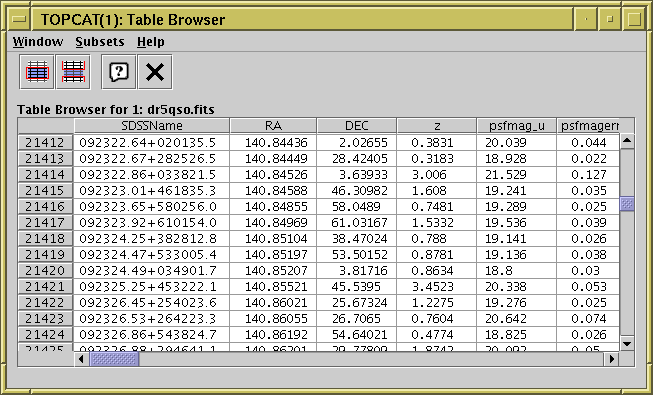
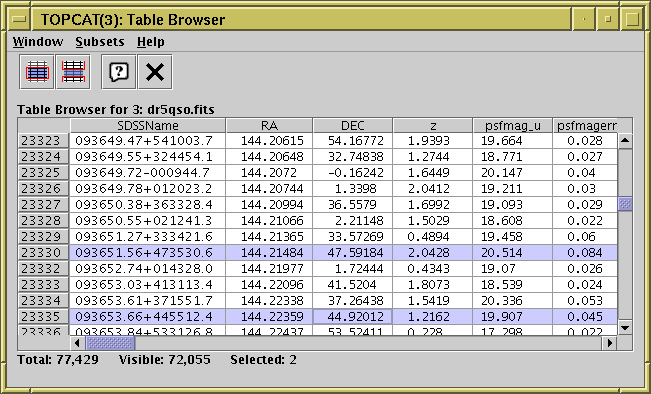
topcat: add status line at bottom of TableViewerWindow
The status line gives total, visible and selected row counts.

diff --git a/topcat/src/main/uk/ac/starlink/topcat/TableViewerWindow.java b/topcat/src/main/uk/ac/starlink/topcat/TableViewerWindow.java
@@ -16,7 +16,9 @@ import java.util.logging.Logger;
 import java.util.regex.Pattern;
 import javax.swing.AbstractAction;
 import javax.swing.Action;
+import javax.swing.Box;
 import javax.swing.JComponent;
+import javax.swing.JLabel;
 import javax.swing.JMenu;
 import javax.swing.JOptionPane;
 import javax.swing.JPopupMenu;
@@ -35,6 +37,7 @@ import javax.swing.event.TableColumnModelListener;
 import javax.swing.event.TableModelEvent;
 import javax.swing.event.TableModelListener;
 import uk.ac.starlink.table.ColumnInfo;
+import uk.ac.starlink.table.StarTable;
 import uk.ac.starlink.table.Tables;
 import uk.ac.starlink.table.gui.StarJTable;
 import uk.ac.starlink.table.gui.StarTableColumn;
@@ -59,10 +62,13 @@ public class TableViewerWindow extends AuxWindow {
     private final ListSelectionListener rowSelListener_;
     private final TableColumnModel colModel_;
     private final ViewerTableModel viewModel_;
+    private final StarTable dataModel_;
     private final ListSelectionModel rowSelectionModel_;
     private final TableColumnModel dummyColModel_;
     private final PropertyChangeListener viewbaseListener_;
     private final TableRowHeader rowHeader_;
+    private final JLabel nvisLabel_;
+    private final JLabel nselLabel_;
     private RowManager rowManager_;
     private int lastViewRowCount_;
     private boolean selfHighlighting_;
@@ -83,6 +89,7 @@ public class TableViewerWindow extends AuxWindow {
         tcModel_ = tcModel;
         colModel_ = tcModel.getColumnModel();
         viewModel_ = tcModel.getViewModel();
+        dataModel_ = tcModel.getDataModel();
         rowSelectionModel_ = new DefaultListSelectionModel();
         rowSelectionModel_.setSelectionMode( ListSelectionModel
                                             .MULTIPLE_INTERVAL_SELECTION );
@@ -119,8 +126,7 @@ public class TableViewerWindow extends AuxWindow {
                 return viewModel_.getBaseRow( irow ) + 1;
             }
         };
-        rowHeader_.setLongestNumber( (int) Math.min( tcModel.getDataModel()
-                                                            .getRowCount(),
+        rowHeader_.setLongestNumber( (int) Math.min( dataModel_.getRowCount(),
                                                      Integer.MAX_VALUE ) );
         rowHeader_.installOnScroller( scroller_ );
         viewbaseListener_ = new PropertyChangeListener() {
@@ -131,6 +137,23 @@ public class TableViewerWindow extends AuxWindow {
                 }
             }
         };
+
+        /* Set up status line. */
+        JComponent statusLine = Box.createHorizontalBox();
+        nvisLabel_ = new JLabel();
+        nselLabel_ = new JLabel();
+        statusLine.add( new JLabel( "Total: " ) );
+        statusLine.add( new JLabel( TopcatUtils
+                                   .formatLong( dataModel_.getRowCount() ) ) );
+        statusLine.add( Box.createHorizontalStrut( 20 ) );
+        statusLine.add( new JLabel( "Visible: " ) );
+        statusLine.add( nvisLabel_ );
+        statusLine.add( Box.createHorizontalStrut( 20 ) );
+        statusLine.add( new JLabel( "Selected: " ) );
+        statusLine.add( nselLabel_ );
+        nselLabel_.setText( "0" );
+        statusLine.add( Box.createHorizontalGlue() );
+        getMainArea().add( statusLine, BorderLayout.SOUTH );
 
         /* Configure for the current state of the apparent table and arrange
          * for reconfiguration if the row count changes. */
@@ -203,6 +226,8 @@ public class TableViewerWindow extends AuxWindow {
                     else {
                         lastActive = -1;
                     }
+                    int nsel = jtable_.getSelectedRowCount();
+                    nselLabel_.setText( TopcatUtils.formatLong( nsel ) );
                 }
             }
         };
@@ -344,6 +369,10 @@ public class TableViewerWindow extends AuxWindow {
         if ( tm0 != tm1 ) {
             rowHeader_.modelChanged();
         }
+
+        /* Update row count. */
+        nvisLabel_.setText( TopcatUtils
+                           .formatLong( viewModel_.getRowCount() ) );
 
         /* Sensible default position. */
         scroller_.getViewport().setViewPosition( new Point( 0, 0 ) );
@@ -513,7 +542,7 @@ public class TableViewerWindow extends AuxWindow {
      * @return  new bit vector
      */
     private BitSet getSelectionMask( boolean isInclude ) {
-        int nrow = (int) tcModel_.getDataModel().getRowCount();
+        int nrow = (int) dataModel_.getRowCount();
         int imin = rowSelectionModel_.getMinSelectionIndex();
         int imax = rowSelectionModel_.getMaxSelectionIndex();
         int[] rowMap = viewModel_.getRowMap();
